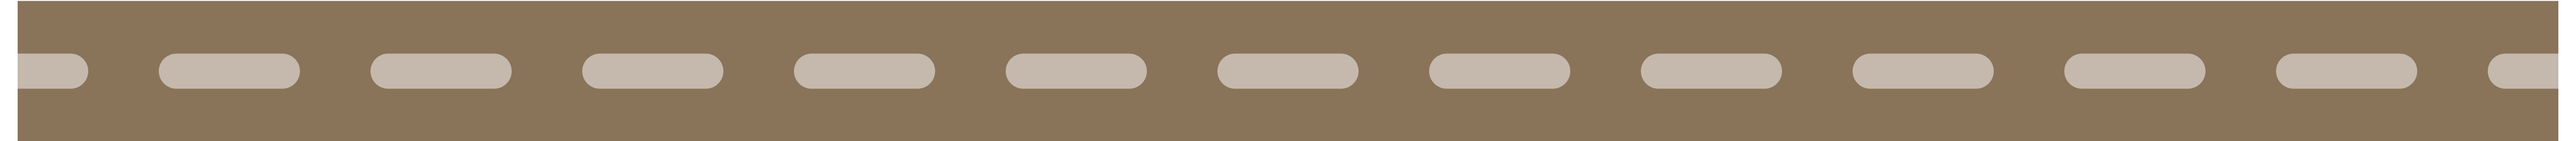
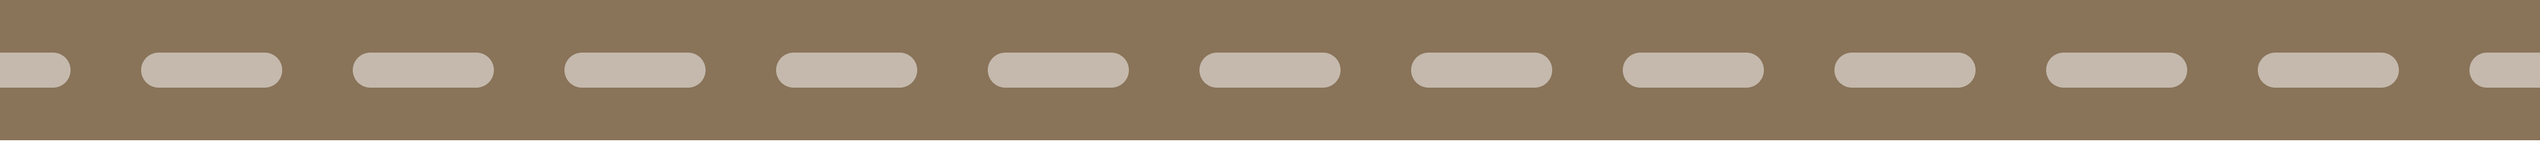
1219la all

diff --git a/rcReact/src/assets/scss/LearnArea3.scss b/rcReact/src/assets/scss/LearnArea3.scss
@@ -4,12 +4,12 @@
 #LearnAreaallall {
     background-color: $primary;
     background-image: url('../images/learnAreaLine.svg');
-    // background-size: w;
     background-position: center;
+    background-size: 99% 99%;
     background-repeat: no-repeat;
 
     #LearnAreaall3 {
-        height: 100vh;
+        // height: 100vh;
         display: flex;
         flex-direction: column;
         justify-content: center;
@@ -174,13 +174,15 @@
 
         .learnimportant {
             display: flex;
+            justify-content: center;
             flex: 2;
+            position: relative;
 
             .impbox {
-                flex: 3;
                 width: 777px;
                 height: 300px;
-                align-self: flex-end;
+                align-self: center;
+
                 background-image: url('../images/learnAreaPoint.svg');
                 background-position: center;
                 background-size: contain;
@@ -192,18 +194,40 @@
             }
 
             .charblue {
-                flex: 1;
+                position: absolute;
+                // top: 400px;
+                // right: 0px;
                 width: 100%;
                 display: flex;
-                justify-content: flex-start;
-                align-items: center;
-                background-image: url('../images/LearnAreacloud1.svg');
-                background-position: left bottom;
-                background-size: 50%;
-                background-repeat: no-repeat;
+                justify-content: flex-end;
+               
+
+                // align-items: center;
+                // background-image: url('../images/LearnAreacloud1.svg');
+                // background-position: center bottom ;
+                // background-size: 15%;
+                // background-repeat: no-repeat;
+                &::before {
+                    content: "";
+                    background-image: url('../images/LearnAreacloud1.svg');
+                    width: 280px;
+                    height: 150px;
+                    background-color: transparent;
+                    background-position: center center;
+                    background-size: contain;
+                    background-repeat: no-repeat;
+                    position: absolute;
+                    top: 550px;
+                    right: 155px
+                    ;
+                }
 
                 .charblueimg {
-                    width: 40%;
+                    position: absolute;
+                    width: 12%;
+                   z-index: 10;
+                   right: 200px;
+                   top: 400px;
                 }
             }
 

diff --git a/rcReact/src/assets/scss/LearnArea4.scss b/rcReact/src/assets/scss/LearnArea4.scss
@@ -5,17 +5,17 @@
     height: 110vh;
     background-color: $primary;
     background-image: url('../images/LearnArea-bg3.svg');
-    background-position: center;
+    background-position: center bottom;
+    background-size: contain;
     background-repeat: no-repeat;
     position: relative;
     display: flex;
     justify-content: center;
-    align-items: center;
+    align-items: flex-start;
 
 
     .game-container {
-        // height: 100vh;
-
+    
         // 可拖動區域樣式
         .draggable-items {
             display: flex;
@@ -25,6 +25,7 @@
             width: 100%;
             height: 100px;
             margin-bottom: 40px;
+            margin-top: 20px;
 
             .draggable {
                 width: 170px;
@@ -195,9 +196,9 @@
     }
     .road2{
         position: absolute;
-        width: 105%;
-        bottom: 0;
-        left: -10px;
+        width: 100%;
+        bottom: -1px;
+        left: 0px;
         z-index: 0;
     }
 }

diff --git a/rcReact/src/pages/LearnArea.jsx b/rcReact/src/pages/LearnArea.jsx
@@ -13,15 +13,15 @@ function LearnArea() {
                 <div className='lanav'>
                     <NavbarBack />
                 </div>
-                <div>
+                <div id='la1'>
                     <LearnArea1 />
-                    <LearnArea2/>
-                    <LearnArea3/>
+                    <LearnArea2 />
                 </div>
                 <div>
-                    <LearnArea4/>
+                    <LearnArea3 />
+                    <LearnArea4 />
                 </div>
-<Footer/>
+                <Footer />
             </div>
 
         </>

diff --git a/rcReact/src/assets/scss/LearnArea.scss b/rcReact/src/assets/scss/LearnArea.scss
@@ -2,3 +2,15 @@
 @use './variables/' as *;
 
 
+#learnArea-a {
+    background-color: $primary;
+    #la1 {
+        background-image: url('../images/LearnArea-bg.svg');
+        // background-size: w;
+        background-position: center bottom -250px;
+        ;
+        background-repeat: no-repeat;
+        
+        background-size: 80% 80%;
+    }
+}

diff --git a/rcReact/src/assets/scss/LearnArea2.scss b/rcReact/src/assets/scss/LearnArea2.scss
@@ -3,11 +3,8 @@
 
 #LearnAreaall2 {
     height: 100vh;
-    background-color: $primary;
-    background-image: url('../images/LearnArea-bg.svg');
-    // background-size: w;
-    background-position: center;
-    background-repeat: no-repeat;
+    // background-color: $primary;
+    
 
     .areaTitle {
         display: flex;

diff --git a/rcReact/src/assets/scss/LearnArea1.scss b/rcReact/src/assets/scss/LearnArea1.scss
@@ -4,7 +4,6 @@
 #LearnAreaall {
     width: 100%;
     overflow: hidden;
-    background-color: $primary;
     margin-top: -118px;//讓navbar出現同一頁
 
     .la1 {
